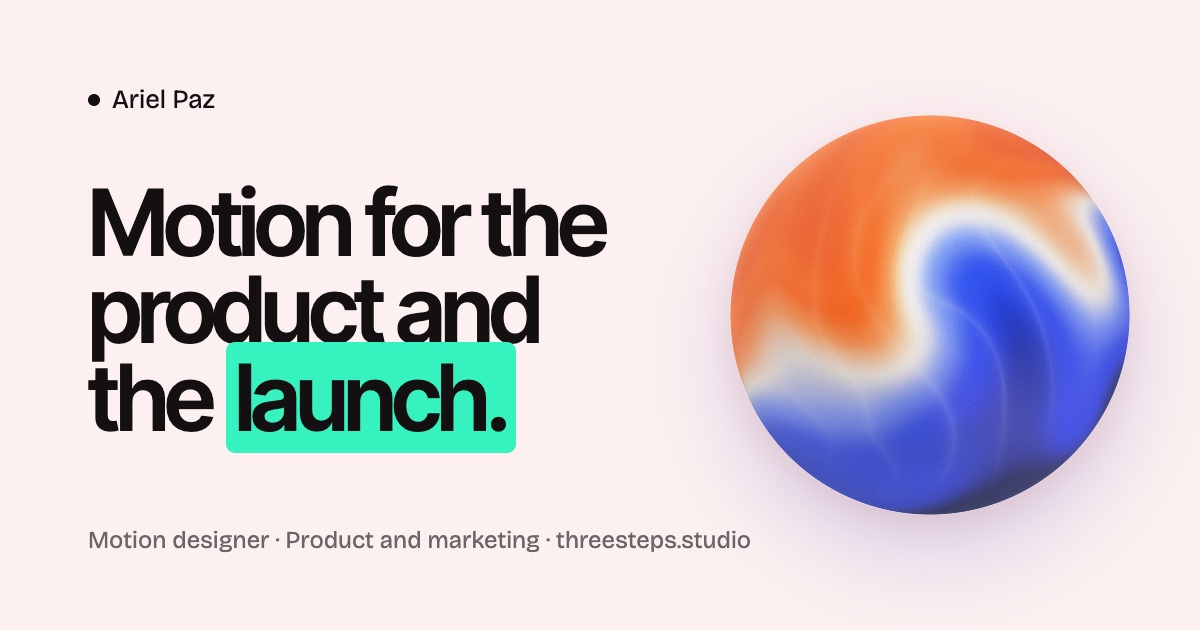
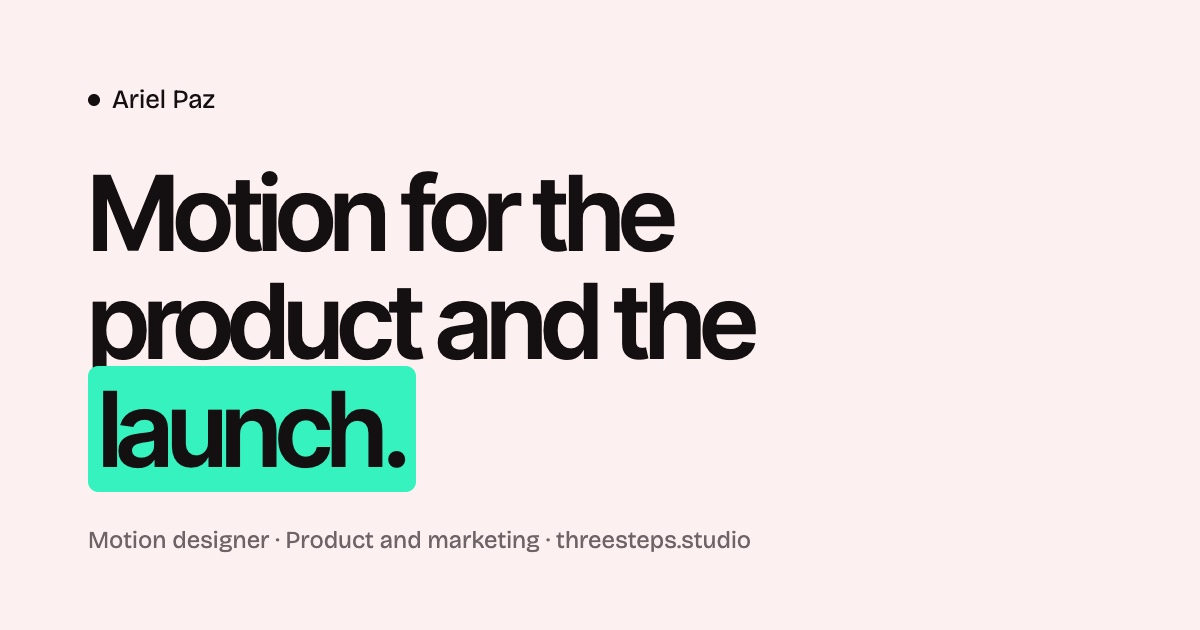
Share image: text only, no orb

Changed region(s): [[0.0617, 0.181, 0.9558, 0.8746]]

diff --git a/og-image-source.html b/og-image-source.html
@@ -11,12 +11,9 @@
   .wrap { position: relative; width: 1200px; height: 630px; padding: 84px 88px; box-sizing: border-box; }
   .name { font-family: 'Bricolage Grotesque', sans-serif; font-size: 26px; display: flex; align-items: center; gap: 12px; }
   .name i { width: 12px; height: 12px; border-radius: 50%; background: #141012; display: inline-block; }
-  h1 { margin: 64px 0 0; font-size: 92px; line-height: .95; font-weight: 600; letter-spacing: -.05em; max-width: 9.5ch; }
+  h1 { margin: 44px 0 0; font-size: 104px; line-height: 1.04; font-weight: 600; letter-spacing: -.05em; max-width: 14ch; }
   h1 span { background: #35F2BE; padding: 0 .1em; border-radius: .1em; }
   .sub { position: absolute; left: 88px; bottom: 76px; font-family: 'Bricolage Grotesque', sans-serif; font-size: 24px; color: #6E6366; }
-  .orb { position: absolute; right: 70px; top: 115px; width: 400px; height: 400px; border-radius: 50%;
-         box-shadow: 0 40px 90px rgba(70, 80, 200, .22), 0 12px 30px rgba(240, 120, 70, .16); }
-  .orb canvas { width: 100%; height: 100%; display: block; border-radius: 50%; }
 </style>
 </head>
 <body>
@@ -24,12 +21,6 @@
     <div class="name"><i></i>Ariel Paz</div>
     <h1>Motion for the product and the <span>launch.</span></h1>
     <div class="sub">Motion designer · Product and marketing · threesteps.studio</div>
-    <div class="orb" id="orb"></div>
   </div>
-  <script src="js/fabric-glass.js"></script>
-  <script>
-    const fg = FabricGlass(800, 'notch');
-    if (fg) { document.getElementById('orb').appendChild(fg.canvas); fg.render(41.7, 0); }
-  </script>
 </body>
 </html>

diff --git a/projects/notch-voice-assistant.html b/projects/notch-voice-assistant.html
@@ -7,7 +7,7 @@
 <meta name="description" content="Case study: the voice assistant orb for Notch’s AI agents. Agent avatars, seven colourways and five voice states, shipped in Notch’s product.">
 <meta property="og:title" content="Notch Voice Assistant — Ariel Paz">
 <meta property="og:description" content="Case study: the voice assistant orb for Notch’s AI agents. Agent avatars, seven colourways and five voice states, shipped in Notch’s product.">
-<meta property="og:image" content="https://threesteps.studio/images/og-image.jpg">
+<meta property="og:image" content="https://threesteps.studio/images/og-image.jpg?v=2">
 <meta property="og:image:width" content="1200">
 <meta property="og:image:height" content="630">
 <meta property="og:image:alt" content="Ariel Paz: Motion for the product and the launch.">
@@ -15,7 +15,7 @@
 <meta property="og:type" content="website">
 <meta property="og:site_name" content="Ariel Paz · Three Steps Studio">
 <meta name="twitter:card" content="summary_large_image">
-<meta name="twitter:image" content="https://threesteps.studio/images/og-image.jpg">
+<meta name="twitter:image" content="https://threesteps.studio/images/og-image.jpg?v=2">
 <link rel="canonical" href="https://threesteps.studio/projects/notch-voice-assistant.html">
 <link rel="icon" type="image/png" href="/images/favicon-light.png?v=3" media="(prefers-color-scheme: light)">
 <link rel="icon" type="image/png" href="/images/favicon-dark.png?v=3" media="(prefers-color-scheme: dark)">

diff --git a/index.html b/index.html
@@ -7,7 +7,7 @@
 <meta name="description" content="Motion designer for product UI and marketing: launch films, ads, social, Lottie, Rive and code.">
 <meta property="og:title" content="Ariel Paz — Motion Design">
 <meta property="og:description" content="Motion designer for product UI and marketing: launch films, ads, social, Lottie, Rive and code.">
-<meta property="og:image" content="https://threesteps.studio/images/og-image.jpg">
+<meta property="og:image" content="https://threesteps.studio/images/og-image.jpg?v=2">
 <meta property="og:image:width" content="1200">
 <meta property="og:image:height" content="630">
 <meta property="og:image:alt" content="Ariel Paz: Motion for the product and the launch.">
@@ -15,7 +15,7 @@
 <meta property="og:type" content="website">
 <meta property="og:site_name" content="Ariel Paz · Three Steps Studio">
 <meta name="twitter:card" content="summary_large_image">
-<meta name="twitter:image" content="https://threesteps.studio/images/og-image.jpg">
+<meta name="twitter:image" content="https://threesteps.studio/images/og-image.jpg?v=2">
 <link rel="canonical" href="https://threesteps.studio/">
 <link rel="icon" type="image/png" href="/images/favicon-light.png?v=3" media="(prefers-color-scheme: light)">
 <link rel="icon" type="image/png" href="/images/favicon-dark.png?v=3" media="(prefers-color-scheme: dark)">
